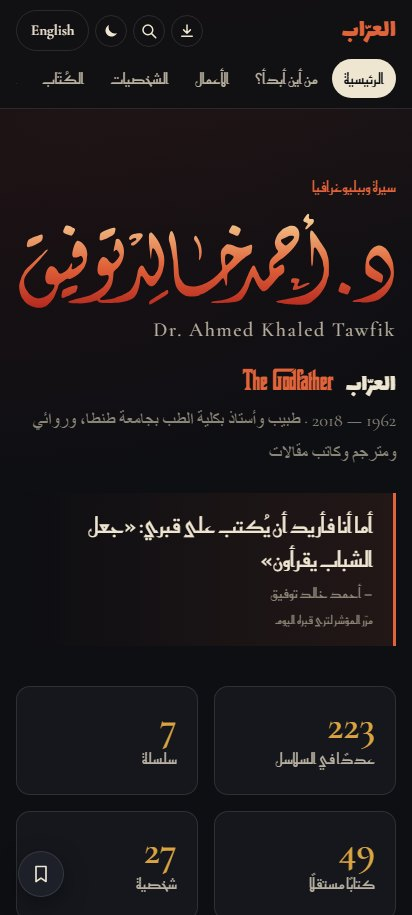
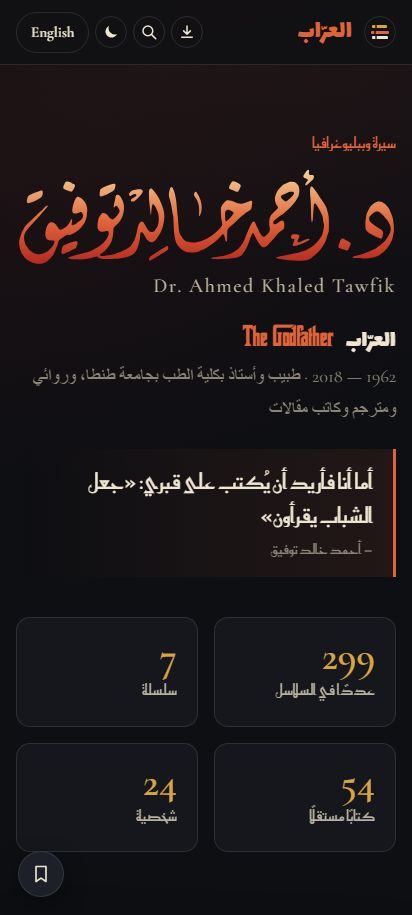
Search and app brought up to date. Search now finds each writer on their own page, the books about him and the other writers' books around him, the publishers, the prizes, and the Audio page's own rows (Eslam Adel's readings, After Midnight, its seasons with their episodes, «قبل منتصف الليل!»). The 

diff --git a/assets/js/app.js b/assets/js/app.js
@@ -514,8 +514,11 @@
 			var K = {
 				series: { ar: 'سلسلة', en: 'Series' }, work: { ar: 'كتاب', en: 'Book' }, issue: { ar: 'عدد', en: 'Issue' },
 				character: { ar: 'شخصية', en: 'Character' }, writer: { ar: 'كاتب', en: 'Writer' }, quote: { ar: 'اقتباس', en: 'Quote' },
-				legacy: { ar: 'الإرث', en: 'Legacy' }, tribute: { ar: 'قالوا عنه', en: 'Tribute' }, blog: { ar: 'المدونة', en: 'Blog' }, media: { ar: 'لقاء / مقال', en: 'Media' }
+				legacy: { ar: 'الإرث', en: 'Legacy' }, tribute: { ar: 'قالوا عنه', en: 'Tribute' }, blog: { ar: 'المدونة', en: 'Blog' }, media: { ar: 'لقاء / مقال', en: 'Media' },
+				about: { ar: 'كتاب عنه', en: 'Book about him' }, near: { ar: 'كتاب من حوله', en: 'Related book' }, publisher: { ar: 'دار نشر', en: 'Publisher' },
+				award: { ar: 'جائزة', en: 'Award' }, audio: { ar: 'مسموع', en: 'Audio' }
 			};
+			var S = window.WorksShared;
 
 			(d.series || []).forEach(function (s) { add(K.series, s.title, s.years, 'series.html?id=' + s.id, both(s.tagline) + ' ' + both(s.synopsis)); });
 			(d.works || []).forEach(function (w) { add(K.work, w.title, w.year, 'book.html?id=' + w.id, both(w.synopsis)); });
@@ -530,10 +533,33 @@
 				(s.issues || []).forEach(function (is, i) { add(K.issue, is.title, s.title, App.issueHref(s.id, Object.assign({ _idx: i }, is)), both(is.original)); });
 			});
 			(d.characters || []).forEach(function (c) { add(K.character, c.name, App.findWork(c.work) ? App.findWork(c.work).title : '', App.charHref(c.id), both(c.role) + ' ' + both(c.desc)); });
-			var W = d.writers || {};
+			/* each writer once, on their own page (as people.js names it), with every work they share with him */
+			var W = d.writers || {}, people = {};
+			var slugOf = function (name) {
+				return String((name && name.en) || '').replace(/^Dr\.\s*/, '').toLowerCase()
+					.normalize('NFKD').replace(/[̀-ͯ]/g, '').replace(/[^a-z0-9]+/g, '-').replace(/^-|-$/g, '') || 'writer';
+			};
 			Object.keys(W).forEach(function (k) {
-				(W[k] || []).forEach(function (w, i) { add(K.writer, w.name, w.work || w.book || '', 'writers.html#wr-' + k + '-' + i, both(w.text)); });
+				(W[k] || []).forEach(function (w) {
+					var id = slugOf(w.name), p = people[id] = people[id] || { name: w.name, work: w.work || w.book || '', body: [] };
+					p.body.push(both(w.work), both(w.book), both(w.text));
+				});
 			});
+			Object.keys(people).forEach(function (id) { var p = people[id]; add(K.writer, p.name, p.work, 'writer.html?id=' + encodeURIComponent(id), p.body.join(' ')); });
+			/* the other writers' books with his words or dedicated to him, and the books about him: each has its page */
+			if (S && S.entryBooks) S.entryBooks().forEach(function (x) { add(K.near, x.w.book, x.w.name, S.bookHref(x.id), both(x.w.text)); });
+			(d.aboutBooks || []).forEach(function (b) { add(K.about, b.title, b.by, 'book.html?id=' + encodeURIComponent(b.id), both(b.by) + ' ' + both(b.publisher)); });
+			if (S && S.publishers) S.publishers().forEach(function (x) { var p = x.p || x; add(K.publisher, p.name, p.city || '', 'publisher.html?id=' + encodeURIComponent(p.id), both(p.note) + ' ' + both(p.about)); });
+			(d.awards || []).forEach(function (a) { add(K.award, a.title, a.year, a.work ? 'book.html?id=' + encodeURIComponent(a.work) : 'works.html#awards-section', both(a.text)); });
+			/* the Audio page's own rows: Eslam Adel's readings, the After Midnight programme, its later seasons and their episodes */
+			var au = d.audio || {};
+			if (au.youtube && au.youtube.eslamAdel) au.youtube.eslamAdel.eps.forEach(function (ep) { add(K.audio, ep[2], { ar: 'بصوت إسلام عادل', en: 'Read by Eslam Adel' }, 'audio.html', 'بصوت إسلام عادل Eslam Adel YouTube'); });
+			(au.midnight || []).forEach(function (m) { add(K.audio, { ar: m[0], en: m[0] }, { ar: 'بعد منتصف الليل', en: 'After Midnight' }, 'audio.html', 'audiohat'); });
+			(au.seasons || []).forEach(function (se) {
+				add(K.audio, { ar: 'بعد منتصف الليل — الموسم ' + se.n, en: 'After Midnight — season ' + se.n }, { ar: String(se.year || ''), en: String(se.year || '') }, 'audio.html',
+					se.eps.map(function (ep) { return ep[2] || ''; }).join(' '));
+			});
+			if (au.midnightSpoofs) add(K.audio, au.midnightSpoofs.title, { ar: au.midnightSpoofs.years || '', en: au.midnightSpoofs.years || '' }, 'audio.html', 'audiohat');
 			(d.quotes || []).forEach(function (q, i) { add(K.quote, q.text, q.from, 'quotes.html#q-' + i, both(q.from)); });
 			(d.legacy || []).forEach(function (l, i) { add(K.legacy, l.title, l.date, 'legacy.html#l-' + i, both(l.text)); });
 			(d.tributes || []).forEach(function (p, i) { add(K.tribute, p.name, p.role, 'tributes.html#t-' + i, both(p.quote) + ' ' + both(p.context)); });

diff --git a/assets/css/cassette.css b/assets/css/cassette.css
@@ -134,6 +134,8 @@ html[lang="en"] .cs-meta { direction: ltr; }
 .audio-credit { color: var(--muted); font-size: 14px; margin-top: 28px; }
 
 /* "Audiohat ↗" key and the tape progress bar */
+/* the YouTube key shows only for a YouTube episode (the keys' own display would otherwise override [hidden]) */
+.cs-out[hidden] { display: none; }
 .cs-out a {
 	height: 52px; padding: 0 14px; display: flex; align-items: center; gap: 8px; cursor: pointer;
 	font: 600 13px var(--f-latin); color: #333; text-decoration: none;

diff --git a/sw.js b/sw.js
@@ -7,7 +7,7 @@
    VERSION and PRECACHE are rewritten by tools/build-sw.js — run it after changing files. */
 'use strict';
 
-var VERSION = 'akt-899ed4d9f4';
+var VERSION = 'akt-19268f7f92';
 var PRECACHE = [
 	'./',
 	'about.html',
